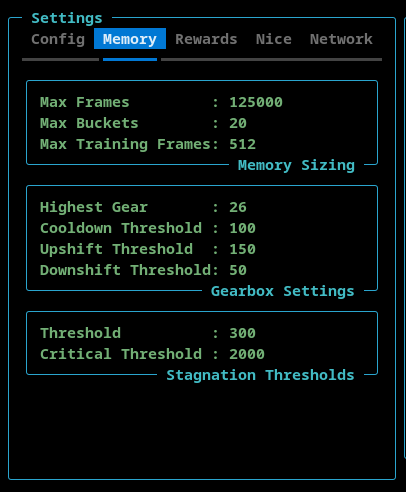
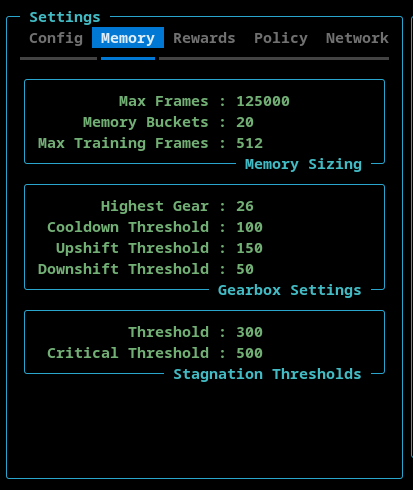
Style: Updated docs and updated screenshots

diff --git a/README.md b/README.md
@@ -17,7 +17,7 @@
   - [Config Settings](#config-settings)
   - [Memory Settings](#memory-settings)
   - [Rewards Settings](#rewards-settings)
-  - [Epsilon Nice Settings](#epsilon-nice-settings)
+  - [Policy Settings](#policy-settings) - EpsilonNice and Monte Carlo Tree Search
   - [Network Settings](#network-settings)
 - [Deterministic Simulations](#deterministic-simulations)
 - [Supported Models: Linear, RNN, GRU](#supported-models-linear-rnn-and-gru)
@@ -221,14 +221,42 @@ The **Memory** tab allows the user to configure the **ATH Memory**.
 - **Movement Incentives** - This section contains rewards that can be assigned for moving into an empty square, moving towards the food, and moving away from the food.
 - **Max Moves Multiplier** - This setting is used to configure the maximum number of moves the AI can make before the game ends. This is to avoid games where the AI circles endlessly. The maximum number of allowed moved is calculated by multiplying the length of the snake by this **max moves multiplier**.
 
-### Epsilon Nice Settings
+### Policy Settings
 
-![EpsilonNice Settings](https://aihydra.osoyalce.com/images/settings-nice.png)
+![Policy Settings](https://aihydra.osoyalce.com/images/settings-policy.png)
 
-The **EpsilonNice** policy execute a configurable number of steps in a random direction such that the move does not result in a collision (if possible).
+This tab contains settings for **EpsilonNice** and the **Monte Carlo Tree Search** features.
+
+**EpsilonNice** 
+
+This policy execute a configurable number of steps in a random direction such that the move does not result in a collision (if possible).
 
 - **Nice P-Value** - The probability that the **EpsilonNice** policy will be activated.
 - **Nice Steps** - The number of consecutive game steps that will be executed using the **EpsilonNice** algorithm.
+
+**Monte Carlo Tree Search**
+
+This policy implements a limited *Monte Carlo Tree Search* (**MCTS**). The goal is not to replace the neural network, but to **selectively enrich the training data** in complex situations.
+
+By design, MCTS operates **sparingly** and in **bursts**.
+
+A burst is a short sequence of consecutive steps during which decision-making is temporarily delegated from the *neural network* to the *MCTS*. Outside of these bursts, the system behaves normally.
+
+- **Gating P-Value** - This is the probability that the *MCTS* policy is activated.
+- **Search Depth** - The maxiumum number of steps, *into the future*, that simulation looks.
+- **Iterations** - The number of MCTS simulations performed per decision.
+  - Each iteration expands and evaluates part of the search tree.
+  - Higher values → more accurate action selection.
+- **Exploration P-Value** - The exploration constant used in the UCB (Upper Confidence Bound) formula
+  - Controls the balance between:
+    - exploiting known good actions (lower values)
+    - exploring less visited actions (higher values)
+- **Steps** - The length of an MCTS burst.
+  - Once triggered, MCTS remains active for this many consecutive steps.
+  - Enables MCTS to guide short action sequences, not just individual moves.
+- **Score Threshold** - A game must have achieved or surpassed this value for the **MCTS** to tigger.
+
+**IMPORTANT NOTE:** If the **EpsilonNice** algorithm is active, then the *MCTS* will **not** trigger.
 
 ### Network Settings
 

diff --git a/docs/_source/index.rst b/docs/_source/index.rst
@@ -208,17 +208,44 @@ Rewards Settings
 - **Movement Incentives** - This section contains rewards that can be assigned for moving into an empty square, moving towards the food, and moving away from the food.
 - **Max Moves Multiplier** - This setting is used to configure the maximum number of moves the AI can make before the game ends. This is to avoid games where the AI circles endlessly. The maximum number of allowed moved is calculated by multiplying the length of the snake by this **max moves multiplier**.
 
-Epsilon Nice Settings
-=====================
+Policy Settings
+===============
 
-.. image:: https://aihydra.osoyalce.com/images/settings-nice.png
+.. image:: https://aihydra.osoyalce.com/images/settings-policy.png
    :alt: EpsilonNice Settings
 
+This tab contains settings for **EpsilonNice** and the **Monte Carlo Tree Search** features.
 
-The **EpsilonNice** policy execute a configurable number of steps in a random direction such that the move does not result in a collision (if possible).
+**EpsilonNice** 
+
+This policy execute a configurable number of steps in a random direction such that the move does not result in a collision (if possible).
 
 - **Nice P-Value** - The probability that the **EpsilonNice** policy will be activated.
 - **Nice Steps** - The number of consecutive game steps that will be executed using the **EpsilonNice** algorithm.
+
+**Monte Carlo Tree Search**
+
+This policy implements a limited *Monte Carlo Tree Search* (**MCTS**). The goal is not to replace the neural network, but to **selectively enrich the training data** in complex situations.
+
+By design, MCTS operates **sparingly** and in **bursts**.
+
+A burst is a short sequence of consecutive steps during which decision-making is temporarily delegated from the *neural network* to the *MCTS*. Outside of these bursts, the system behaves normally.
+
+- **Gating P-Value** - This is the probability that the *MCTS* policy is activated.
+- **Search Depth** - The maxiumum number of steps, *into the future*, that simulation looks.
+- **Iterations** - The number of MCTS simulations performed per decision.
+  - Each iteration expands and evaluates part of the search tree.
+  - Higher values → more accurate action selection.
+- **Exploration P-Value** - The exploration constant used in the UCB (Upper Confidence Bound) formula
+  - Controls the balance between:
+    - exploiting known good actions (lower values)
+    - exploring less visited actions (higher values)
+- **Steps** - The length of an MCTS burst.
+  - Once triggered, MCTS remains active for this many consecutive steps.
+  - Enables MCTS to guide short action sequences, not just individual moves.
+- **Score Threshold** - A game must have achieved or surpassed this value for the **MCTS** to tigger.
+
+**IMPORTANT NOTE:** If the **EpsilonNice** algorithm is active, then the *MCTS* will **not** trigger.
 
 Network Settings
 ================

diff --git a/CHANGELOG.md b/CHANGELOG.md
@@ -6,14 +6,36 @@ The format is based on [Keep a Changelog](https://keepachangelog.com/en/1.0.0/) 
 
 ---
 
-## [Unreleased]
+## [0.26.0] - 2026-04-05 @ 11:19 - Monte Carlo Release
+
+### Added
+- **Monte Carle Tree Search**
+  - This policy implements a limited *Monte Carlo Tree Search* (**MCTS**). The goal is not to replace the neural network, but to **selectively enrich the training data** in complex situations.
+  - By design, MCTS operates **sparingly** and in **bursts**.
+  - A burst is a short sequence of consecutive steps during which decision-making is temporarily delegated from the *neural network* to the *MCTS*. Outside of these bursts, the system behaves normally.
+  - The following settings are exposed in the TUI:
+    - **Gating P-Value** - This is the probability that the *MCTS* policy is activated.
+    - **Search Depth** - The maxiumum number of steps, *into the future*, that simulation looks.
+    - **Iterations** - The number of MCTS simulations performed per decision.
+    - Each iteration expands and evaluates part of the search tree.
+    - Higher values → more accurate action selection.
+    - **Exploration P-Value** - The exploration constant used in the UCB (Upper Confidence Bound) formula
+    - Controls the balance between:
+      - exploiting known good actions (lower values)
+      - exploring less visited actions (higher values)
+    - **Steps** - The length of an MCTS burst.
+    - Once triggered, MCTS remains active for this many consecutive steps.
+    - Enables MCTS to guide short action sequences, not just individual moves.
+    - **Score Threshold** - A game must have achieved or surpassed this value for the **MCTS** to tigger.
+- Updated [PyPI](https://pypi.org/project/ai-hydra/) and [RTD](https://ai-hydra.readthedocs.io/en/latest/) documentation with updated screenshots.
 
 ### Fixed
 - Table of contents for the ATH Memory in the [PyPI](https://pypi.org/project/ai-hydra/) documentation.
+- Formatting of the settings fields.
 
 ---
 
-## [0.25.2] - 2026-04-04 @12:48 - Clear Docs Release
+## [0.25.2] - 2026-04-04 @ 12:48 - Clear Docs Release
 
 ### Changed
 - Complete rewrite of the section on *ATH Memory* for the [PyPI](https://pypi.org/project/ai-hydra/) and [RTD](https://ai-hydra.readthedocs.io/en/latest/) documentation.
